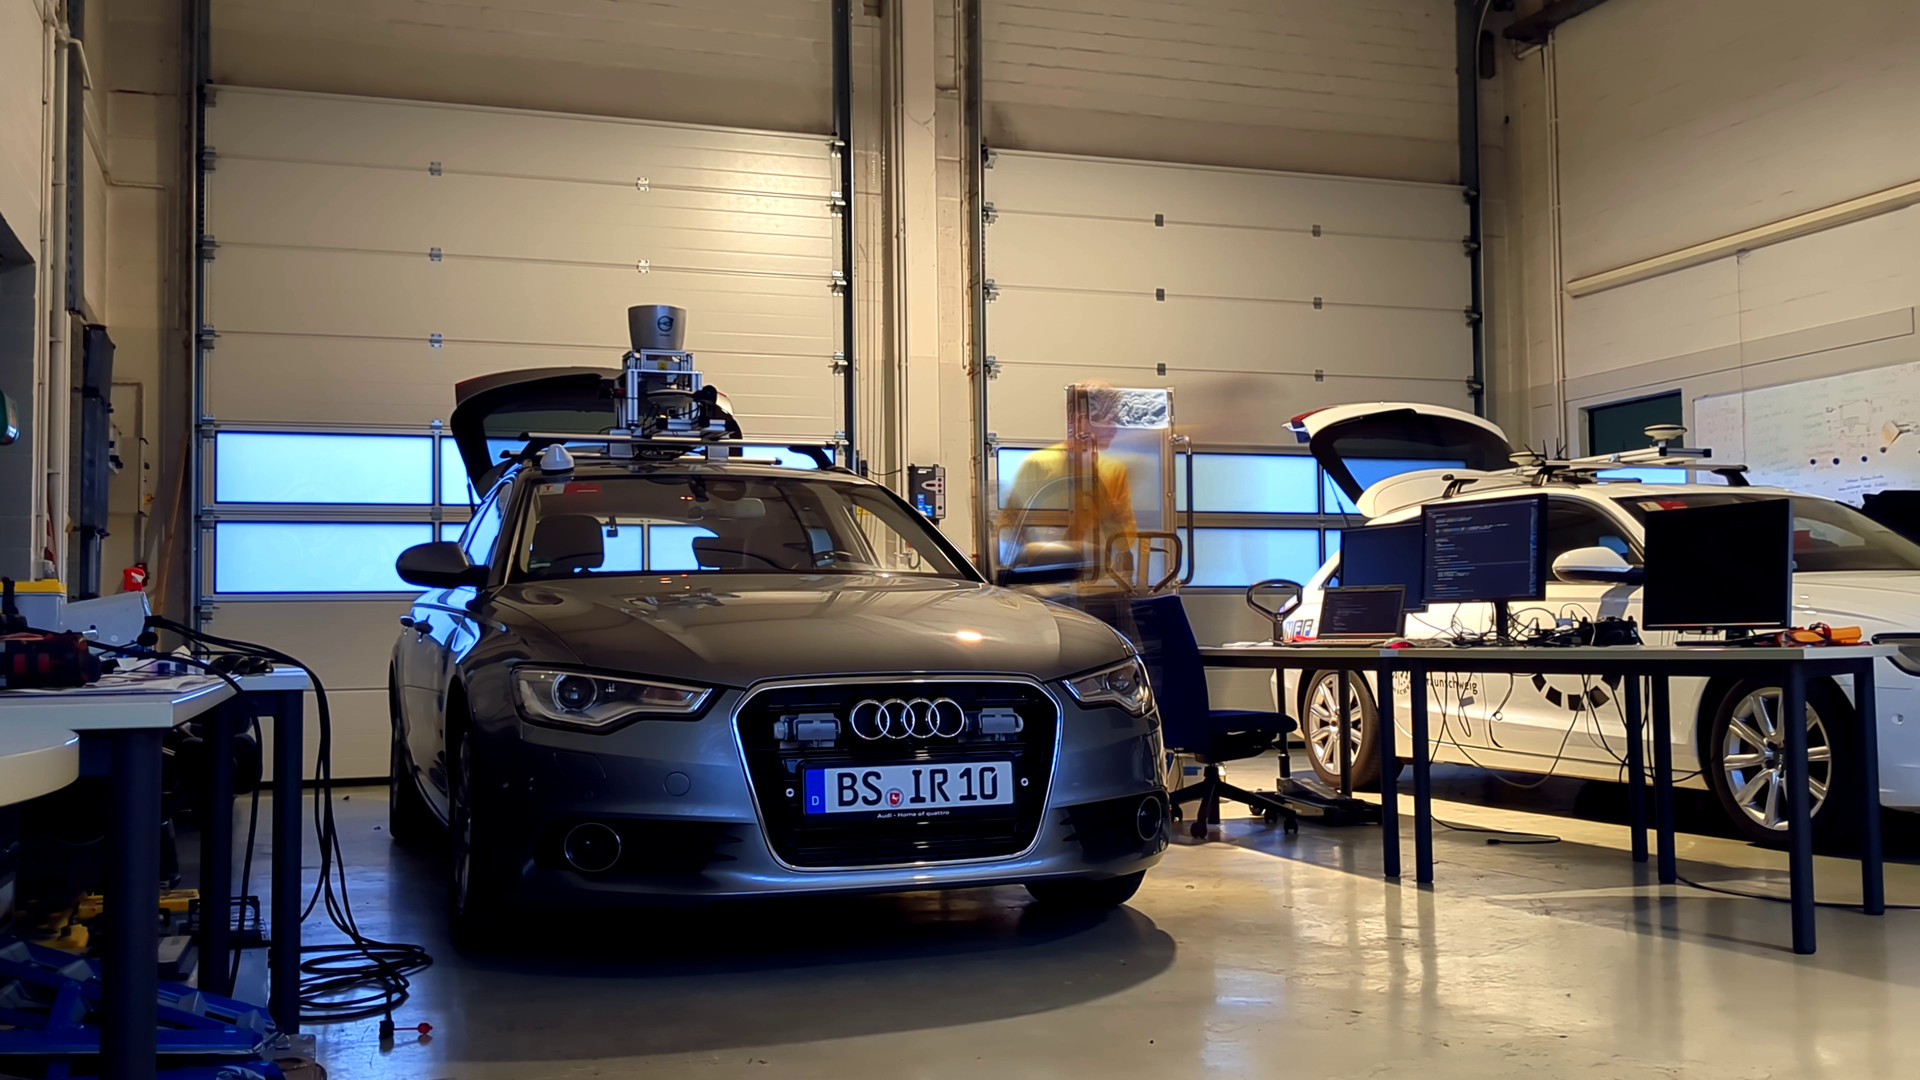
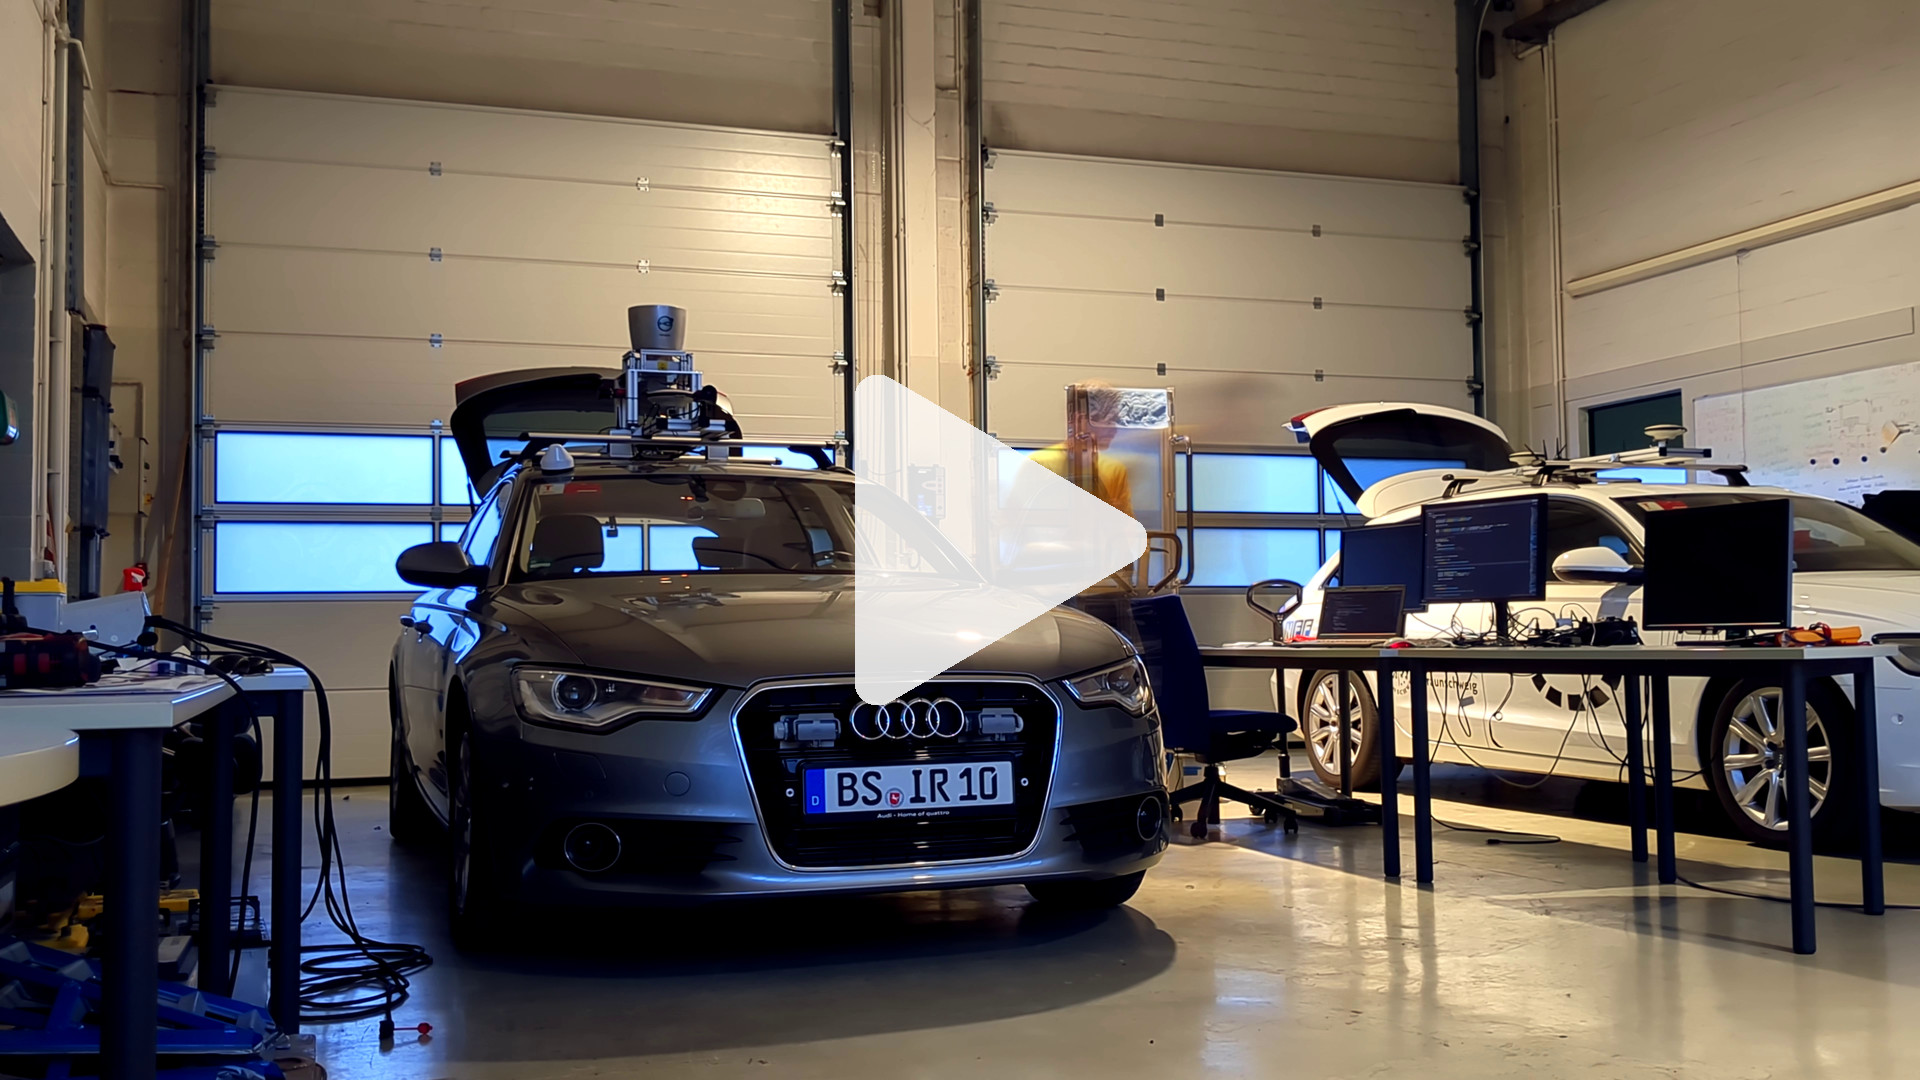
Updated video placeholder

Changed region(s): [[0.4375, 0.3361, 0.5938, 0.6722]]

diff --git a/README.md b/README.md
@@ -9,7 +9,7 @@ The Static Environment Perception for Infrastructure-Aware (Automated) Driving (
 
 Watch the trailer now:
 
-[![Click here to watch the trailer](/assets/video_first_frame.jpg)](https://youtu.be/ThkwTLyey9k)
+[![Click here to watch the trailer](/assets/video_first_frame.jpg)](https://www.youtube.com/watch?v=ThkwTLyey9k?autoplay=1)
 
 ## Data Recording & Geography
 
